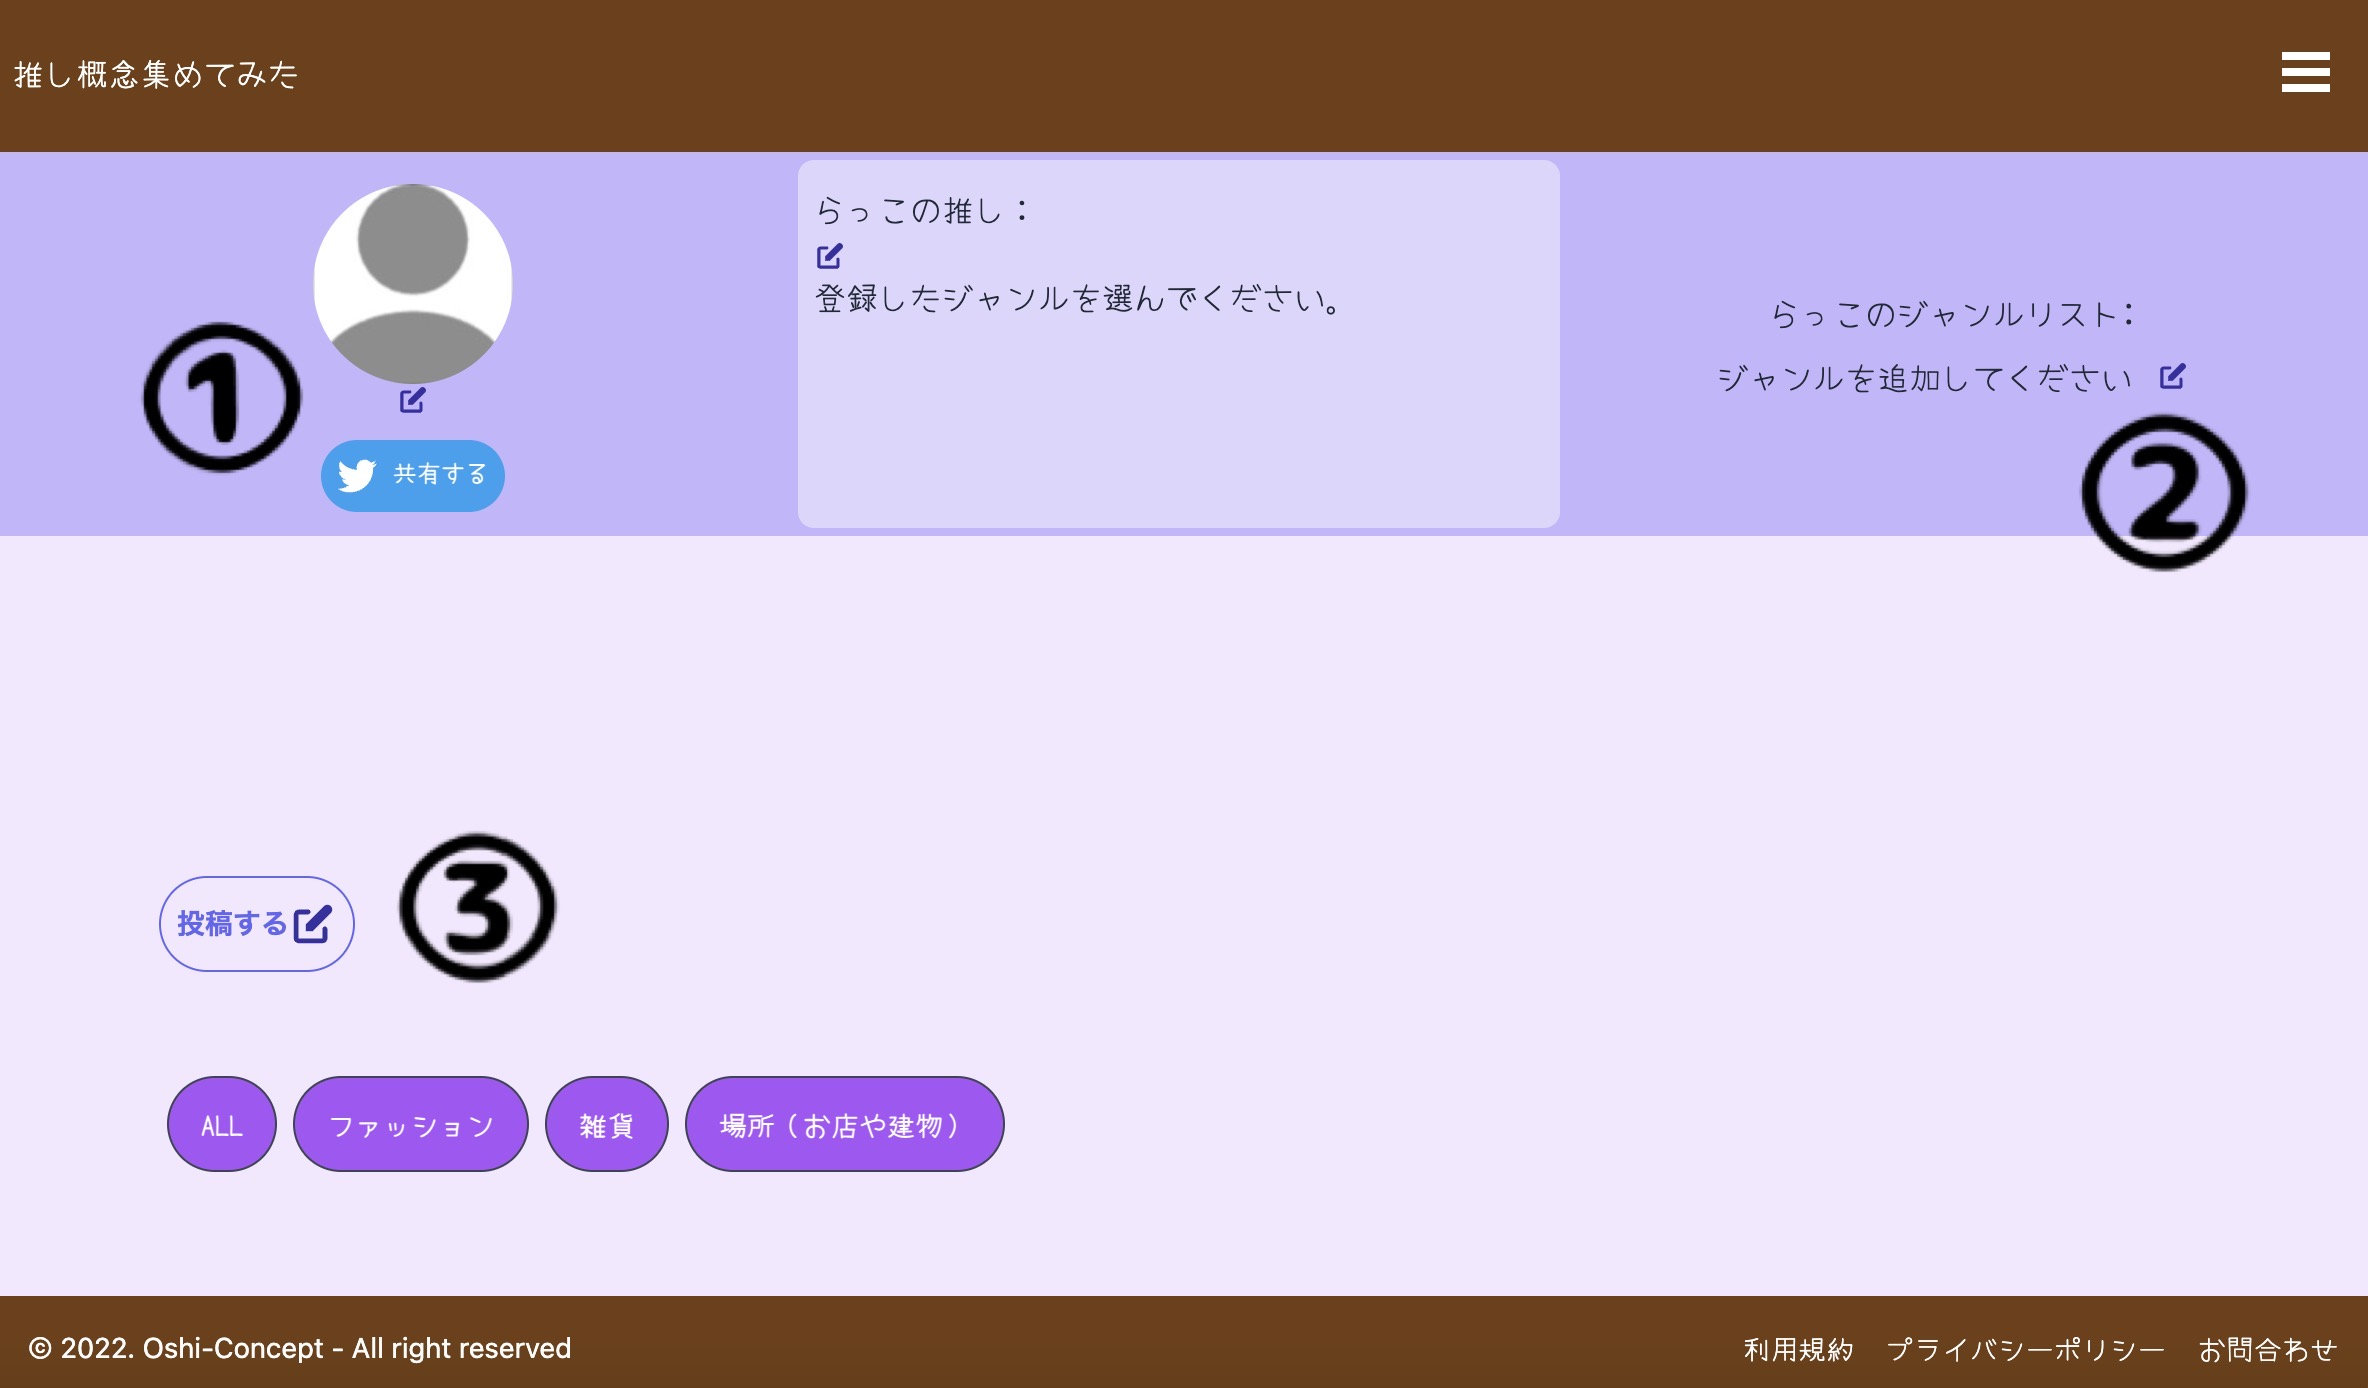
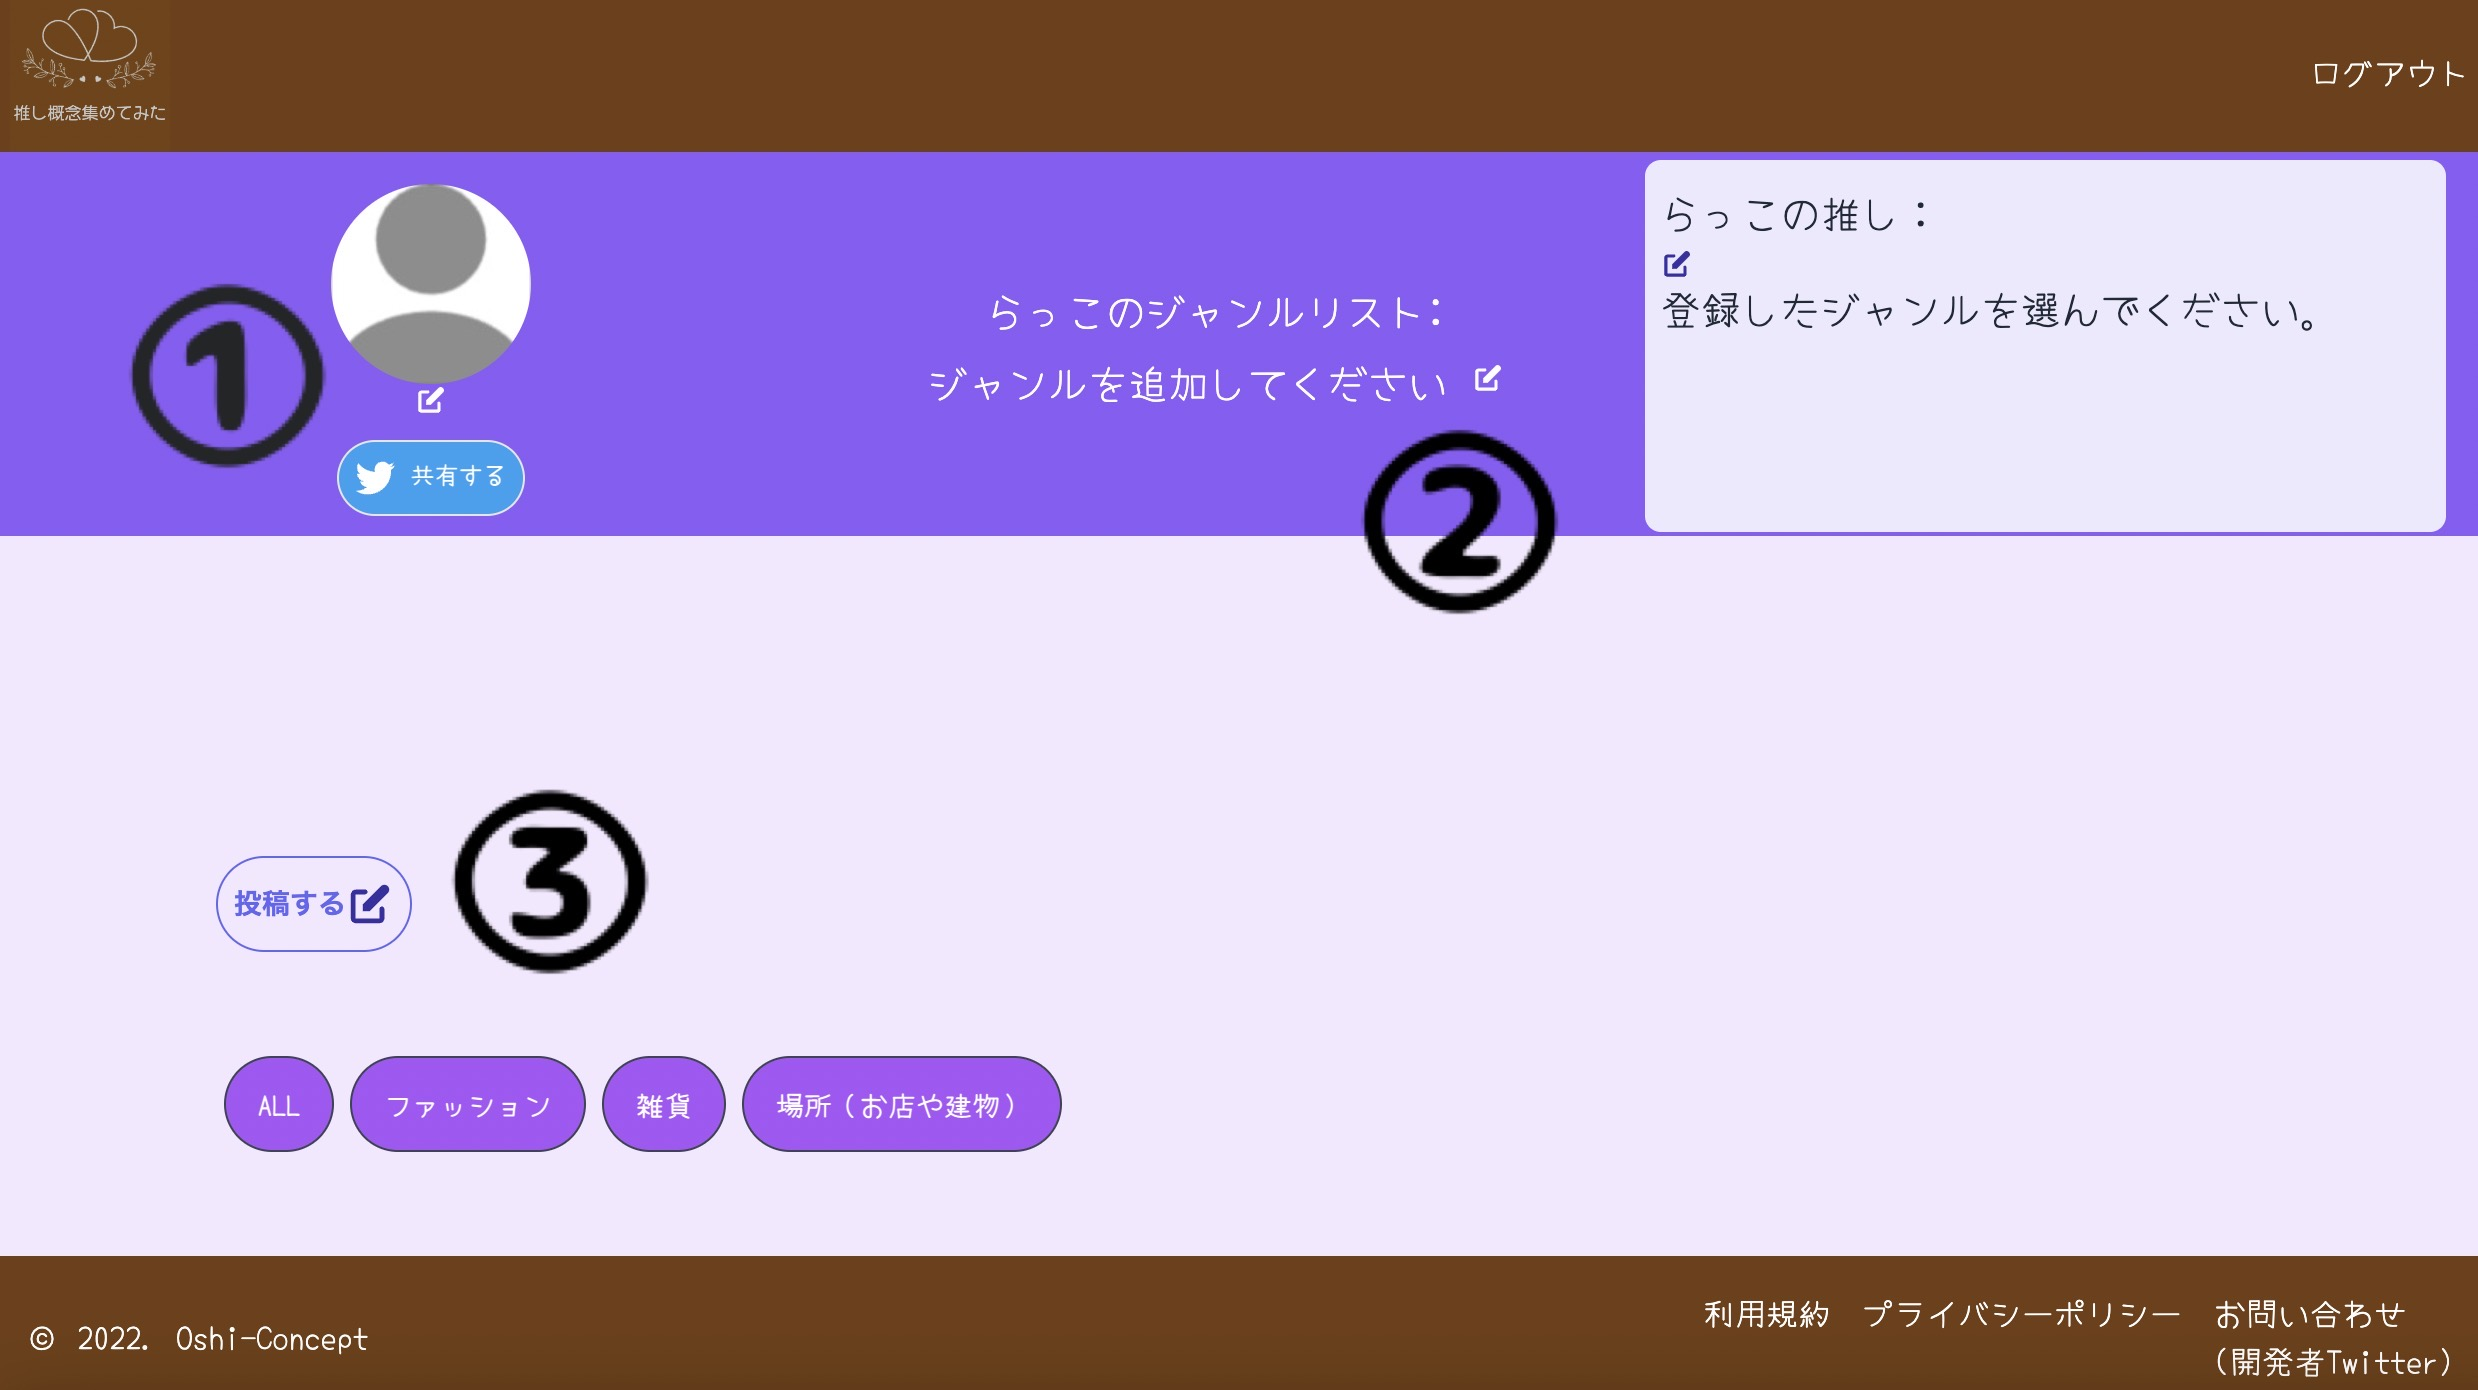
Fix:TOPページとマイページヘッダーのレイアウト修正

diff --git a/app/javascript/components/MypageHeader.vue b/app/javascript/components/MypageHeader.vue
@@ -1,16 +1,16 @@
 <template>
-  <div class="w-full h-48 bg-violet-300 sticky top-20 z-10">
+  <div class="w-full h-48 bg-violet-500 sticky top-20 z-10">
     <div class="max-w-auto h-auto p-4 pb-1">
       <div class="grid grid-cols-3">
         <div class="icon sm:-pt-6 lg:-mt-12 pb-5 flex flex-col justify-center items-center">
           <div v-if="!user.icon_url">
-            <img alt="icon" class="icon-image lg:mt-12 rounded-full" src="../../../public/img/default_icon.jpg">
+            <img alt="icon" class="icon-image lg:mt-12 border-white rounded-full" src="../../../public/img/default_icon.jpg">
           </div>
           <div v-else>
-            <img :src="user.icon_url" class="rounded-full icon-image lg:mt-12"/>
+            <img :src="user.icon_url" class="rounded-full icon-image border-white lg:mt-12"/>
           </div>
           <router-link v-if="loginUser" :to="{ name: 'MypageEdit' }" class="nav-link">
-            <svg xmlns="http://www.w3.org/2000/svg" class="h-4 w-4 text-indigo-800" viewBox="0 0 20 20" fill="currentColor">
+            <svg xmlns="http://www.w3.org/2000/svg" class="h-4 w-4 text-white" viewBox="0 0 20 20" fill="currentColor">
               <path d="M17.414 2.586a2 2 0 00-2.828 0L7 10.172V13h2.828l7.586-7.586a2 2 0 000-2.828z" />
               <path fill-rule="evenodd" d="M2 6a2 2 0 012-2h4a1 1 0 010 2H4v10h10v-4a1 1 0 112 0v4a2 2 0 01-2 2H4a2 2 0 01-2-2V6z" clip-rule="evenodd" />
             </svg>
@@ -26,7 +26,7 @@
               >
                 <div>
                   <button
-                    class="page-font text-xs flex justify-center bg-twitter hover:bg-sky-400 active:bg-sky-500 text-white font-semibold text-center rounded-full transition duration-100 gap-2 mt-3 px-2 py-2"
+                    class="page-font text-xs flex justify-center bg-twitter hover:bg-sky-400 active:bg-sky-500 text-white font-semibold text-center border rounded-full transition duration-100 gap-2 mt-3 px-2 py-2"
                   >
                     <svg class="w-5 h-5 shrink-0" width="24" height="24" viewBox="328 355 335 276" fill="none" xmlns="http://www.w3.org/2000/svg">
                       <path d="
@@ -54,42 +54,40 @@
             </li>
           </ul>
         </div>
-        <div>
-          <div class="bg-violet-200 h-full -mt-3 mr-1 px-2 py-3 rounded-lg">
-            <p class="page-font mb-1 text-xs lg:text-base"><span class="page-font">{{ user.name }}</span>の推し：</p>
-            <router-link v-if="loginUser" :to="{ name: 'MygenresEdit' }" class="nav-link">
-              <svg xmlns="http://www.w3.org/2000/svg" class="h-4 w-4 text-indigo-800" viewBox="0 0 20 20" fill="currentColor">
-                <path d="M17.414 2.586a2 2 0 00-2.828 0L7 10.172V13h2.828l7.586-7.586a2 2 0 000-2.828z" />
-                <path fill-rule="evenodd" d="M2 6a2 2 0 012-2h4a1 1 0 010 2H4v10h10v-4a1 1 0 112 0v4a2 2 0 01-2 2H4a2 2 0 01-2-2V6z" clip-rule="evenodd" />
-              </svg>
-            </router-link>
-            <div class="flex flex-wrap justify-between">
-              <p class="page-font text-xs lg:text-base" v-if="mygenreCharacters.length === 0">登録したジャンルを選んでください。</p>
-              <ul v-for="mygenreCharacter in mygenreCharacters" class="rounded">
-                <li class="page-font text-xs lg:text-xl">{{ mygenreCharacter.character.name }}</li>
-              </ul>
-            </div>
-          </div>
-        </div>
-        <div class="flex flex-col my-auto items-center">
-          <p class="page-font text-xs lg:text-base mb-3 -mt-6"><span class="page-font text-xs lg:text-base">{{ user.name }}</span>のジャンルリスト:</p>
+        <div class="flex flex-col my-auto -ml-4 pr-2 items-center">
+          <p class="page-font text-xs lg:text-xl text-white mb-3 -mt-6"><span class="page-font text-xs lg:text-xl">{{ user.name }}</span>のジャンルリスト:</p>
           <div class="flex">
-            <p class="page-font text-xs lg:text-base mr-3 -mt-1" v-if="mygenres.length === 0">ジャンルを追加してください</p>
+            <p class="page-font text-xs lg:text-xl text-white mr-3 -mt-1" v-if="mygenres.length === 0">ジャンルを追加してください</p>
             <router-link v-if="loginUser" :to="{ name: 'MypageNew' }" class="nav-link">
-              <svg xmlns="http://www.w3.org/2000/svg" class="h-4 w-4 text-indigo-800" viewBox="0 0 20 20" fill="currentColor">
+              <svg xmlns="http://www.w3.org/2000/svg" class="h-4 w-4 text-white" viewBox="0 0 20 20" fill="currentColor">
                 <path d="M17.414 2.586a2 2 0 00-2.828 0L7 10.172V13h2.828l7.586-7.586a2 2 0 000-2.828z" />
                 <path fill-rule="evenodd" d="M2 6a2 2 0 012-2h4a1 1 0 010 2H4v10h10v-4a1 1 0 112 0v4a2 2 0 01-2 2H4a2 2 0 01-2-2V6z" clip-rule="evenodd" />
               </svg>
             </router-link>
           </div>
           <div class="flex flex-col justify-between items-center">
-            <div v-for="(mygenre, index) in mygenres" :key="mygenre.id">
+            <div class="w-full my-1" v-for="(mygenre, index) in mygenres" :key="mygenre.id">
               <button
                 class="page-font text-white text-xs lg:text-base bg-indigo-500 hover:bg-indigo-800 border rounded-full p-2"
                 @click="fetchBoth(mygenre)"
                 v-bind:class="{'active': isActive === index}" v-on:click="isSelect(index)"
               >{{ mygenre.genre.name }}</button>
             </div>
+          </div>
+        </div>
+        <div class="bg-violet-100 h-full -mt-3 mr-1 px-2 py-3 rounded-lg">
+          <p class="page-font mb-1 text-xs lg:text-xl"><span class="page-font">{{ user.name }}</span>の推し：</p>
+          <router-link v-if="loginUser" :to="{ name: 'MygenresEdit' }" class="nav-link">
+            <svg xmlns="http://www.w3.org/2000/svg" class="h-4 w-4 text-indigo-800" viewBox="0 0 20 20" fill="currentColor">
+              <path d="M17.414 2.586a2 2 0 00-2.828 0L7 10.172V13h2.828l7.586-7.586a2 2 0 000-2.828z" />
+              <path fill-rule="evenodd" d="M2 6a2 2 0 012-2h4a1 1 0 010 2H4v10h10v-4a1 1 0 112 0v4a2 2 0 01-2 2H4a2 2 0 01-2-2V6z" clip-rule="evenodd" />
+            </svg>
+          </router-link>
+          <div class="flex flex-col justify-between">
+            <p class="page-font text-xs lg:text-xl" v-if="mygenreCharacters.length === 0">登録したジャンルを選んでください。</p>
+            <ul v-for="mygenreCharacter in mygenreCharacters" class="rounded">
+              <li class="page-font text-base lg:text-xl">{{ mygenreCharacter.character.name }}</li>
+            </ul>
           </div>
         </div>
       </div>

diff --git a/app/javascript/pages/top/index.vue b/app/javascript/pages/top/index.vue
@@ -4,33 +4,33 @@
       <section class="flex flex-col items-center">
         <div class="max-w-xl flex flex-col items-center text-center pt-8">
           <p class="page-font lg:text-6xl text-3xl font-bold mb-8 md:mb-12">推し<span class="page-font text-indigo-500 lg:text-6xl text-3xl font-bold">概念</span>集めてみた</p>
-          <p class="page-font text-purple-500 text-xl mb-4 md:mb-6">TwitterやWEBページでいいなと思う情報を見つけて保存しても、いざ欲しいとき他の情報に埋もれてしまって探すのに苦労した経験はありませんか？</p>
+          <p class="page-font text-purple-700 font-bold text-xl mb-4 md:mb-6">TwitterやWEBページでいいなと思う情報を見つけて保存しても、いざ欲しいとき他の情報に埋もれてしまって探すのに苦労した経験はありませんか？</p>
           <div class="bg-gray-100 rounded-lg shadow-lg grid gap-8 lg:gap-12 mt-10 mb-6">
             <div class="h-100 md:h-auto overflow-hidden rounded-lg">
               <img img src="../../../../public/img/post_show.jpg" loading="lazy" alt="mypage-top" class="pl-2 pr-2 mt-5" />
             </div>
             <div class="text-center pb-12">
-              <p class="page-font text-gray-800 mb-4">“推し概念集めてみた”を使うと、</p>
-              <p class="page-font text-gray-800 ml-3">ジャンルごとに推しっぽいと思ったツイートやWEBページを保存して<br>自分が”概念”と感じたものを好きなだけ集めて<br>オリジナルのマイページを作成できます</p>
+              <p class="page-font text-gray-800 text-xl font-bold mb-4">“推し概念集めてみた”を使うと、</p>
+              <p class="page-font text-gray-800 text-xl font-bold ml-3">ジャンルごとに推しっぽいと思ったツイートやWEBページを<br>保存して自分が”概念”と感じたものを好きなだけ集めて<br>オリジナルのマイページを作成できます。</p>
             </div>
           </div>
           <div class="bg-gray-100 rounded-lg shadow-lg grid  gap-8 lg:gap-12 mt-10 mb-6">
-            <p class="page-font text-xl mt-5 text-purple-500">使い方は簡単！</p>
+            <p class="page-font text-2xl mt-5 text-purple-700 font-bold">使い方は簡単！</p>
             <div class="h-100 md:h-auto overflow-hidden rounded-lg">
               <img img src="../../../../public/img/how_to_use.jpg" loading="lazy" alt="mypage-top" class="pl-2 pr-2 mt-5" />
             </div>
             <div class="text-center">
-              <p class="page-font text-gray-800 mb-4">STEP1:マイページ名とアイコンを登録</p>
-              <p class="page-font text-gray-800 mb-4 ml-3">STEP2:ジャンルと推しを登録</p>
-              <p class="page-font text-gray-800 mb-4 ml-3">STEP3:推しっぽいものを見つけたらURLを投稿</p>
+              <p class="page-font text-2xl text-gray-800 font-bold mb-4">STEP1:マイページ名とアイコンを登録</p>
+              <p class="page-font text-2xl text-gray-800 font-bold mb-4 ml-3">STEP2:ジャンルと推しを登録</p>
+              <p class="page-font text-2xl text-gray-800 font-bold mb-4 ml-3">STEP3:推しっぽいものを見つけたらURLを投稿</p>
             </div>
 
           </div>
-          <div class="text-purple-500 xl:text-lg leading-relaxed mb-8 md:mb-12">
-            <p class="page-font text-xl mb-8">このピアス推しっぽい</p>
-            <p class="page-font text-xl mb-8">このカフェ推しのイメージ</p>
-            <p class="page-font text-xl mb-8">このポーチの色味推しじゃん！</p>
-            <p class="page-font text-xl mb-8">などなど自分が ”概念”と感じたものはどんどん投稿して自分だけの推し概念集めてみよう</p>
+          <div class="text-purple-700 font-bold xl:text-lg leading-relaxed mb-8 md:mb-12">
+            <p class="page-font text-2xl mb-8">このピアス推しっぽい</p>
+            <p class="page-font text-2xl mb-8">このカフェ推しのイメージ</p>
+            <p class="page-font text-2xl mb-8">このポーチの色味推しじゃん！</p>
+            <p class="page-font text-2xl mb-8">などなど自分が ”概念”と感じたものはどんどん投稿して自分だけの推し概念集めてみよう</p>
           </div>
           <svg xmlns="http://www.w3.org/2000/svg" class="animate-bounce h-20 w-10 text-indigo-500" fill="none" viewBox="0 0 24 24" stroke="currentColor" stroke-width="2">
             <path stroke-linecap="round" stroke-linejoin="round" d="M19 13l-7 7-7-7m14-8l-7 7-7-7" />
